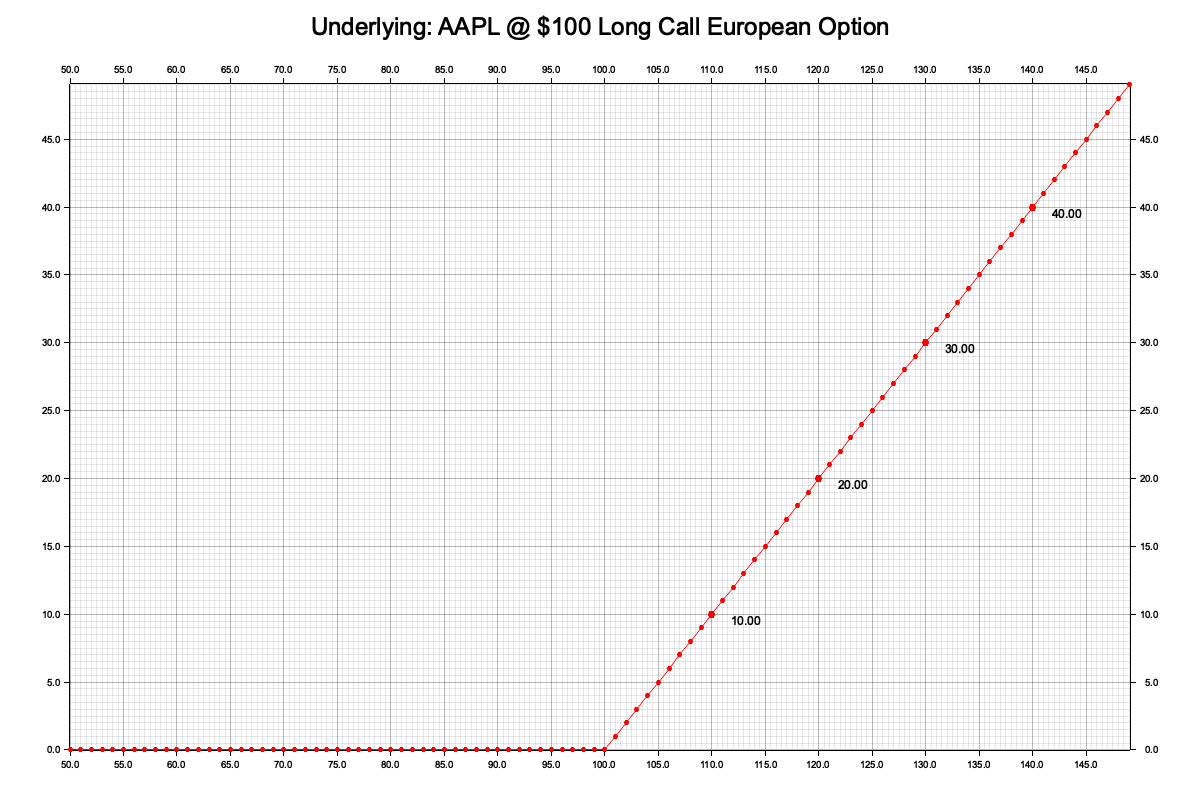
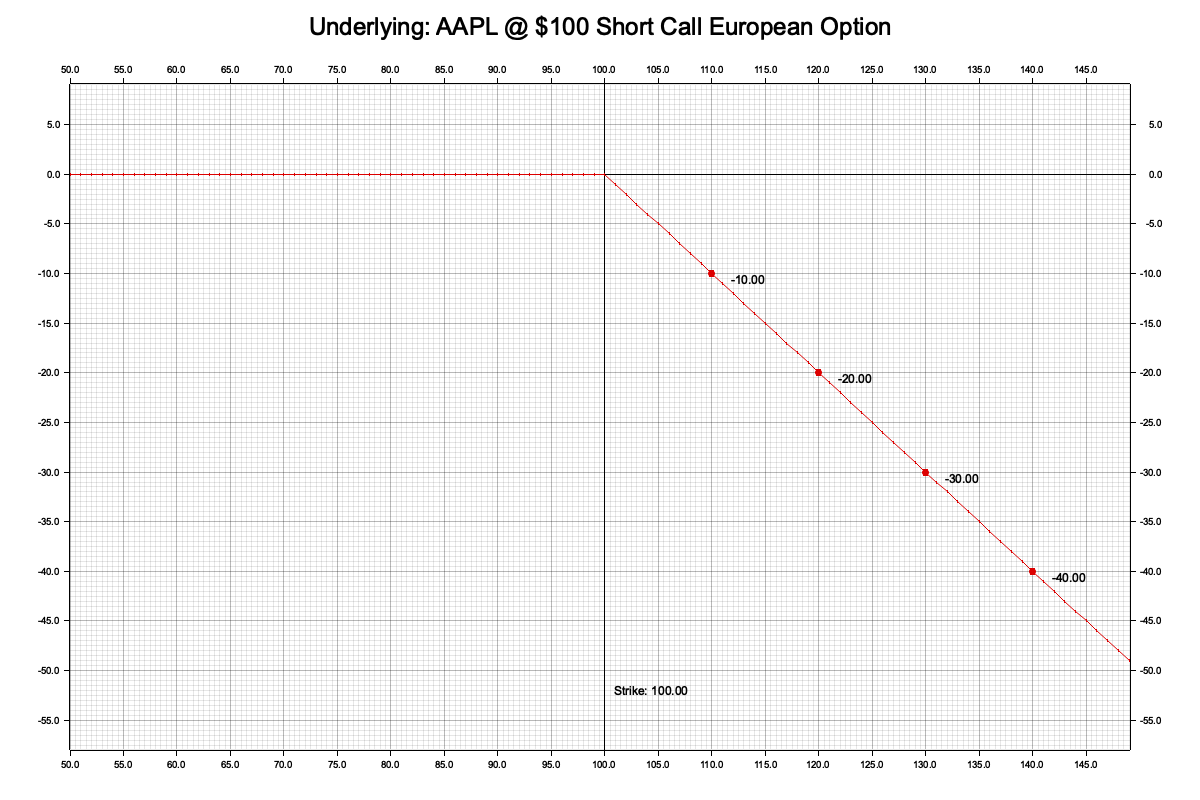
Add break-even lines and adjust margins in option graph
Enhanced the option graph visualization by adding break-even lines for both horizontal and vertical axes. Improved the range calculation by adjusting margins around the intrinsic value to ensure clarity. Changed sample option side to "Short" in the examples for testing purposes.

Changed region(s): [[0.0308, 0.0938, 0.9867, 0.9375], [0.2467, 0.0, 0.74, 0.0625]]

diff --git a/src/model/option.rs b/src/model/option.rs
@@ -237,6 +237,8 @@ impl Graph for Options {
             .map(|&price| self.intrinsic_value(price))
             .collect();
 
+        let dark_red = RGBColor(220, 0, 0);
+
         // Set up the drawing area with a 1200x800 pixel canvas
         let root = BitMapBackend::new(file_path, (1200, 800)).into_drawing_area();
         root.fill(&WHITE)?;
@@ -244,14 +246,20 @@ impl Graph for Options {
         // Determine the range for the X and Y axes
         let max_price = data.iter().cloned().fold(f64::NEG_INFINITY, f64::max);
         let min_price = data.iter().cloned().fold(f64::INFINITY, f64::min);
-        let max_intrinsic_value = intrinsic_values
+
+        let max_intrinsic_values = intrinsic_values
             .iter()
             .cloned()
             .fold(f64::NEG_INFINITY, f64::max);
-        let min_intrinsic_value = intrinsic_values
+        let min_intrinsic_values = intrinsic_values
             .iter()
             .cloned()
             .fold(f64::INFINITY, f64::min);
+        let adjusted_max = (max_intrinsic_values * 1.2 - max_intrinsic_values).abs();
+        let adjusted_min = (min_intrinsic_values * 1.2 - min_intrinsic_values).abs();
+        let margin_value = std::cmp::max(adjusted_max as i64, adjusted_min as i64);
+        let max_intrinsic_value = max_intrinsic_values + margin_value as f64;
+        let min_intrinsic_value = min_intrinsic_values - margin_value as f64;
 
         let title: String = self.title();
 
@@ -271,19 +279,54 @@ impl Graph for Options {
         // Configure and draw the mesh grid
         chart.configure_mesh().x_labels(20).y_labels(20).draw()?;
 
+        // Draw a horizontal line at y = 0 to indicate break-even
+        chart.draw_series(LineSeries::new(
+            vec![(min_price, 0.0), (max_price, 0.0)],
+            &BLACK,
+        ))?;
+
+        // Draw a vertical line at the break-even price
+        chart.draw_series(LineSeries::new(
+            vec![
+                (self.strike_price, min_intrinsic_value),
+                (self.strike_price, max_intrinsic_value),
+            ],
+            &BLACK,
+        ))?;
+        println!("{} {}", min_intrinsic_value, max_intrinsic_value);
+        let break_even_label_position = match self.side {
+            Side::Long => (10, 30),
+            Side::Short => (10, 600),
+        };
+
+        // Add a label at the top of the break-even line
+        chart.draw_series(PointSeries::of_element(
+            vec![(self.strike_price, max_intrinsic_value)],
+            5,
+            &BLACK,
+            &|coord, _size, _style| {
+                EmptyElement::at(coord)
+                    + Text::new(
+                        format!("Strike: {:.2}", self.strike_price),
+                        break_even_label_position, // Position the text just above the top of the line
+                        ("sans-serif", 15).into_font(),
+                    )
+            },
+        ))?;
+
         // Draw the line series representing intrinsic values
         chart.draw_series(LineSeries::new(
             data.iter().cloned().zip(intrinsic_values.iter().cloned()),
-            &RED,
+            &dark_red,
         ))?;
 
         // Draw points on the graph with labels for the intrinsic values
         for (i, (&price, &value)) in data.iter().zip(intrinsic_values.iter()).enumerate() {
-            if i % 10 == 0 && value > 0.0 {
+            if i % 10 == 0 && value != 0.0 {
                 chart.draw_series(PointSeries::of_element(
                     vec![(price, value)],
                     3,
-                    &RED,
+                    &dark_red,
                     &|coord, size, style| {
                         EmptyElement::at(coord)
                             + Circle::new((0, 0), size, style.filled())
@@ -297,8 +340,8 @@ impl Graph for Options {
             } else {
                 chart.draw_series(PointSeries::of_element(
                     vec![(price, value)],
-                    2,
-                    &RED,
+                    0,
+                    &dark_red,
                     &|coord, size, style| {
                         EmptyElement::at(coord) + Circle::new((0, 0), size, style.filled())
                     },
@@ -322,6 +365,110 @@ impl Graph for Options {
         )
     }
 }
+
+// impl Graph for Options {
+//     fn graph(&self, data: &[f64], file_path: &str) -> Result<(), Box<dyn Error>> {
+//         // Generate intrinsic value for each price in the data vector
+//         let intrinsic_values: Vec<f64> = data
+//             .iter()
+//             .map(|&price| self.intrinsic_value(price))
+//             .collect();
+//
+//         let dark_red = RGBColor(220, 0, 0);
+//
+//         // Set up the drawing area with a 1200x800 pixel canvas
+//         let root = BitMapBackend::new(file_path, (1200, 800)).into_drawing_area();
+//         root.fill(&WHITE)?;
+//
+//         // Determine the range for the X and Y axes
+//         let max_price = data.iter().cloned().fold(f64::NEG_INFINITY, f64::max);
+//         let min_price = data.iter().cloned().fold(f64::INFINITY, f64::min);
+//
+//         let max_intrinsic_values = intrinsic_values.iter().cloned().fold(f64::NEG_INFINITY, f64::max);
+//         let min_intrinsic_values = intrinsic_values.iter().cloned().fold(f64::INFINITY, f64::min);
+//         let adjusted_max = (max_intrinsic_values * 1.2 - max_intrinsic_values).abs();
+//         let adjusted_min = (min_intrinsic_values * 1.2 - min_intrinsic_values).abs();
+//         let margin_value = std::cmp::max(adjusted_max as i64, adjusted_min as i64);
+//         let max_intrinsic_value = max_intrinsic_values + margin_value as f64;
+//         let min_intrinsic_value = min_intrinsic_values - margin_value as f64;
+//
+//
+//         let title: String = self.title();
+//
+//         // Build the chart with specified margins and label sizes
+//         let mut chart = ChartBuilder::on(&root)
+//             .caption(title, ("sans-serif", 30))
+//             .margin(10)
+//             .top_x_label_area_size(40)
+//             .x_label_area_size(40)
+//             .y_label_area_size(60)
+//             .right_y_label_area_size(60)
+//             .build_cartesian_2d(
+//                 min_price..max_price,
+//                 min_intrinsic_value..max_intrinsic_value,
+//             )?;
+//
+//         // Configure and draw the mesh grid
+//         chart.configure_mesh().x_labels(20).y_labels(20).draw()?;
+//
+//         // Draw a horizontal line at y = 0 to indicate break-even
+//         chart.draw_series(LineSeries::new(
+//             vec![(min_price, 0.0), (max_price, 0.0)],
+//             &BLACK,
+//         ))?;
+//
+//         // Draw the line series representing intrinsic values
+//         chart.draw_series(LineSeries::new(
+//             data.iter().cloned().zip(intrinsic_values.iter().cloned()),
+//             &dark_red,
+//         ))?;
+//
+//         // Draw points on the graph with labels for the intrinsic values
+//         for (i, (&price, &value)) in data.iter().zip(intrinsic_values.iter()).enumerate() {
+//             if i % 10 == 0 && value > 0.0 {
+//                 chart.draw_series(PointSeries::of_element(
+//                     vec![(price, value)],
+//                     3,
+//                     &dark_red,
+//                     &|coord, size, style| {
+//                         EmptyElement::at(coord)
+//                             + Circle::new((0, 0), size, style.filled())
+//                             + Text::new(
+//                                 format!("{:.2}", value),
+//                                 (20, 0),
+//                                 ("sans-serif", 15).into_font(),
+//                             )
+//                     },
+//                 ))?;
+//             } else {
+//                 chart.draw_series(PointSeries::of_element(
+//                     vec![(price, value)],
+//                     0,
+//                     &dark_red,
+//                     &|coord, size, style| {
+//                         EmptyElement::at(coord) + Circle::new((0, 0), size, style.filled())
+//                     },
+//                 ))?;
+//
+//             }
+//         }
+//
+//         // Finalize and render the chart
+//         root.present()?;
+//         Ok(())
+//     }
+//
+//     fn title(&self) -> String {
+//         format!(
+//             "Underlying: {} @ ${:.0} {} {} {}",
+//             self.underlying_symbol,
+//             self.strike_price,
+//             self.side,
+//             self.option_style,
+//             self.option_type
+//         )
+//     }
+// }
 
 #[cfg(test)]
 mod tests_options {

diff --git a/examples/option_graph.rs b/examples/option_graph.rs
@@ -11,7 +11,7 @@ use std::error::Error;
 fn create_sample_option() -> Options {
     Options::new(
         OptionType::European,
-        Side::Long,
+        Side::Short,
         "AAPL".to_string(),
         100.0,
         ExpirationDate::Days(30.0),
